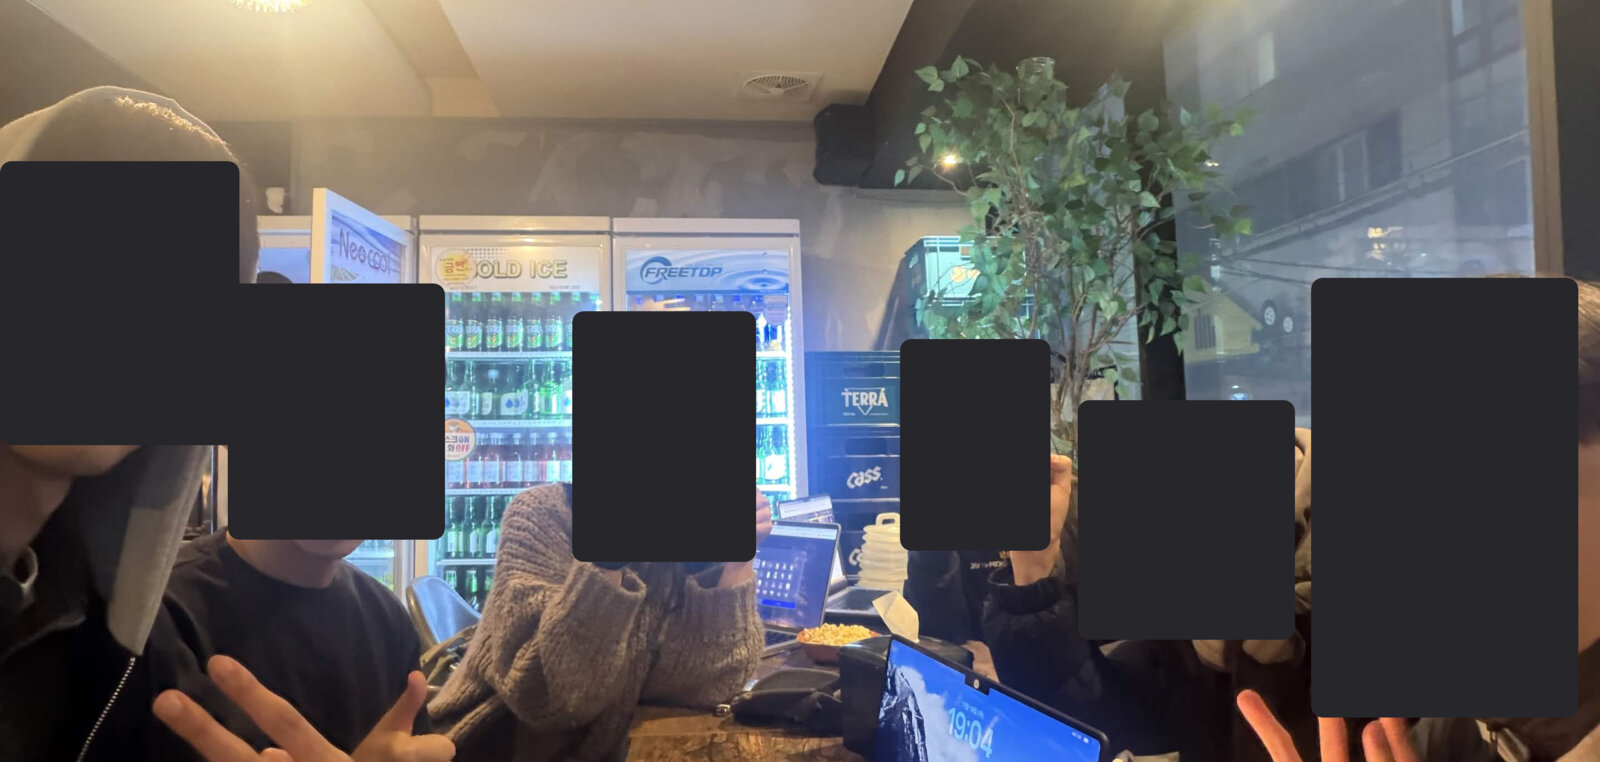
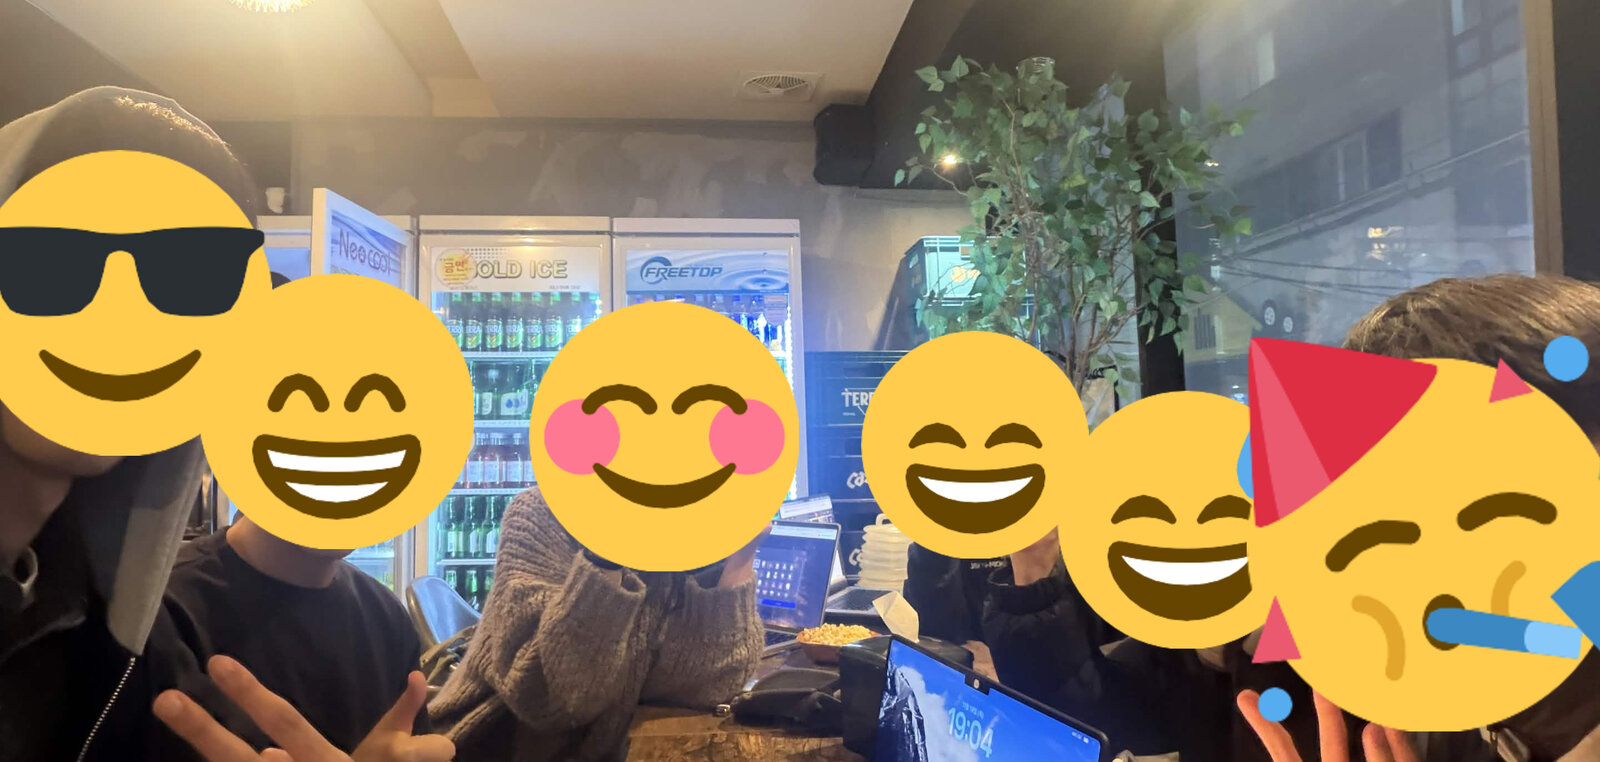
fix: 회고 대표 사진의 얼굴 가림을 Twemoji 이모지로 바꾸고 출처를 적는다

diff --git a/posts/2026-kakao-tech-campus-retrospective/index.html b/posts/2026-kakao-tech-campus-retrospective/index.html
@@ -124,7 +124,7 @@
 <p>"폐업 처리 자체는 몇 분이면 되는데, 폐업했다는 걸 알아채고 확인하는 데 품이 많이 들어요." 8월의 이 한마디가 13주짜리 과제의 전부였다.</p>
 </blockquote>
 <p>카카오테크캠퍼스 4기에서 경북대 6팀 팀장을 맡았다. 여섯 명이 만든 것은 <strong>선한레이더</strong>다. 결식아동을 돕는 가게 명단에서 폐업·이전·정보 변경을 AI 에이전트가 조사하고, 바뀐 것 같은 가게에는 직접 전화를 걸어 확인한 뒤, 담당자에게는 바뀐 것만 근거와 함께 올리는 서비스다. 9월 8일 첫 PR부터 11월 11일 마지막 머지까지 PR 191건, 그중 180건이 머지됐다.</p>
-<figure><img width="1600" height="762" alt="2026년 11월 19일 수료식 날 저녁, 팀원 여섯이 한 자리에 모였다. 얼굴은 모두 가렸다" src="/assets/2026-kakao-tech-campus-retrospective/hero.jpg" /><figcaption aria-hidden="true">2026년 11월 19일 수료식 날 저녁, 팀원 여섯이 한 자리에 모였다. 얼굴은 모두 가렸다</figcaption></figure>
+<figure><img width="1600" height="762" alt="2026년 11월 19일 수료식 날 저녁, 팀원 여섯이 한 자리에 모였다. 얼굴은 이모지로 가렸다" src="/assets/2026-kakao-tech-campus-retrospective/hero.jpg" /><figcaption aria-hidden="true">2026년 11월 19일 수료식 날 저녁, 팀원 여섯이 한 자리에 모였다. 얼굴은 이모지로 가렸다</figcaption></figure>
 <h2>문제는 전화기 옆에 있었다</h2>
 <p>주제를 정하기 전에 기관부터 찾았다. 8월에 결식아동 지원 가게 명단을 관리하는 기관 열세 곳에 "명단이 낡는 문제를 어떻게 관리하시나요"라고 메일을 보냈고, 다섯 곳에서 답이 왔다. 그중 선한영향력가게 사무국과는 전화로 인터뷰했다. 담당자는 가게를 점검할 때마다 반복 업무에 시간을 쓰고, 폐업은 전화나 문자로 전해 듣는 데 의존하고, 무엇을 기준으로 조사해야 할지 모르겠다고 했다.</p>
 <p>숫자로도 확인했다. 서울시가 공개한 급식카드 가맹점 9만 곳을 행정안전부 인허가 데이터와 대조하니 찾을 수 있었던 6만 9천 곳 중 6천 곳이 인허가 기준으로 폐업 상태였고, 경기도 선한영향력가게 명단에서 사업자등록번호가 있는 465곳을 국세청에 조회하니 139곳이 폐업한 사업자였다. 가게가 문을 닫아도 아무도 명단을 고치지 않는다는 말이 그대로 수치로 나왔다.</p>
@@ -191,6 +191,7 @@
 <ul>
 <li>시연 영상 https://youtu.be/0Y5lPzmyg04</li>
 </ul>
+<p><small>대표 사진의 얼굴 이모지는 <a href="https://github.com/jdecked/twemoji">Twemoji</a>(CC-BY 4.0)입니다.</small></p>
     </article>
     <nav class="postnav" aria-label="글 이동">
       <a class="pn prev" href="/posts/2026-ai-top-100-preliminary/">

diff --git a/_src/posts/2026-kakao-tech-campus-retrospective.md b/_src/posts/2026-kakao-tech-campus-retrospective.md
@@ -11,7 +11,7 @@ date_basis: "기존 발행일"
 
 카카오테크캠퍼스 4기에서 경북대 6팀 팀장을 맡았다. 여섯 명이 만든 것은 **선한레이더**다. 결식아동을 돕는 가게 명단에서 폐업·이전·정보 변경을 AI 에이전트가 조사하고, 바뀐 것 같은 가게에는 직접 전화를 걸어 확인한 뒤, 담당자에게는 바뀐 것만 근거와 함께 올리는 서비스다. 9월 8일 첫 PR부터 11월 11일 마지막 머지까지 PR 191건, 그중 180건이 머지됐다.
 
-![2026년 11월 19일 수료식 날 저녁, 팀원 여섯이 한 자리에 모였다. 얼굴은 모두 가렸다](/assets/2026-kakao-tech-campus-retrospective/hero.jpg)
+![2026년 11월 19일 수료식 날 저녁, 팀원 여섯이 한 자리에 모였다. 얼굴은 이모지로 가렸다](/assets/2026-kakao-tech-campus-retrospective/hero.jpg)
 
 ## 문제는 전화기 옆에 있었다
 
@@ -81,3 +81,5 @@ date_basis: "기존 발행일"
 ![커뮤니티매핑센터 감사장(2026년 11월 9일). 232곳 확인·갱신 작업이 센터의 사업 결과보고서에 별도 사례로 실렸다는 내용](/assets/2026-kakao-tech-campus-retrospective/thank-you-letter.jpg)
 
 - 시연 영상 https://youtu.be/0Y5lPzmyg04
+
+<small>대표 사진의 얼굴 이모지는 <a href="https://github.com/jdecked/twemoji">Twemoji</a>(CC-BY 4.0)입니다.</small>
